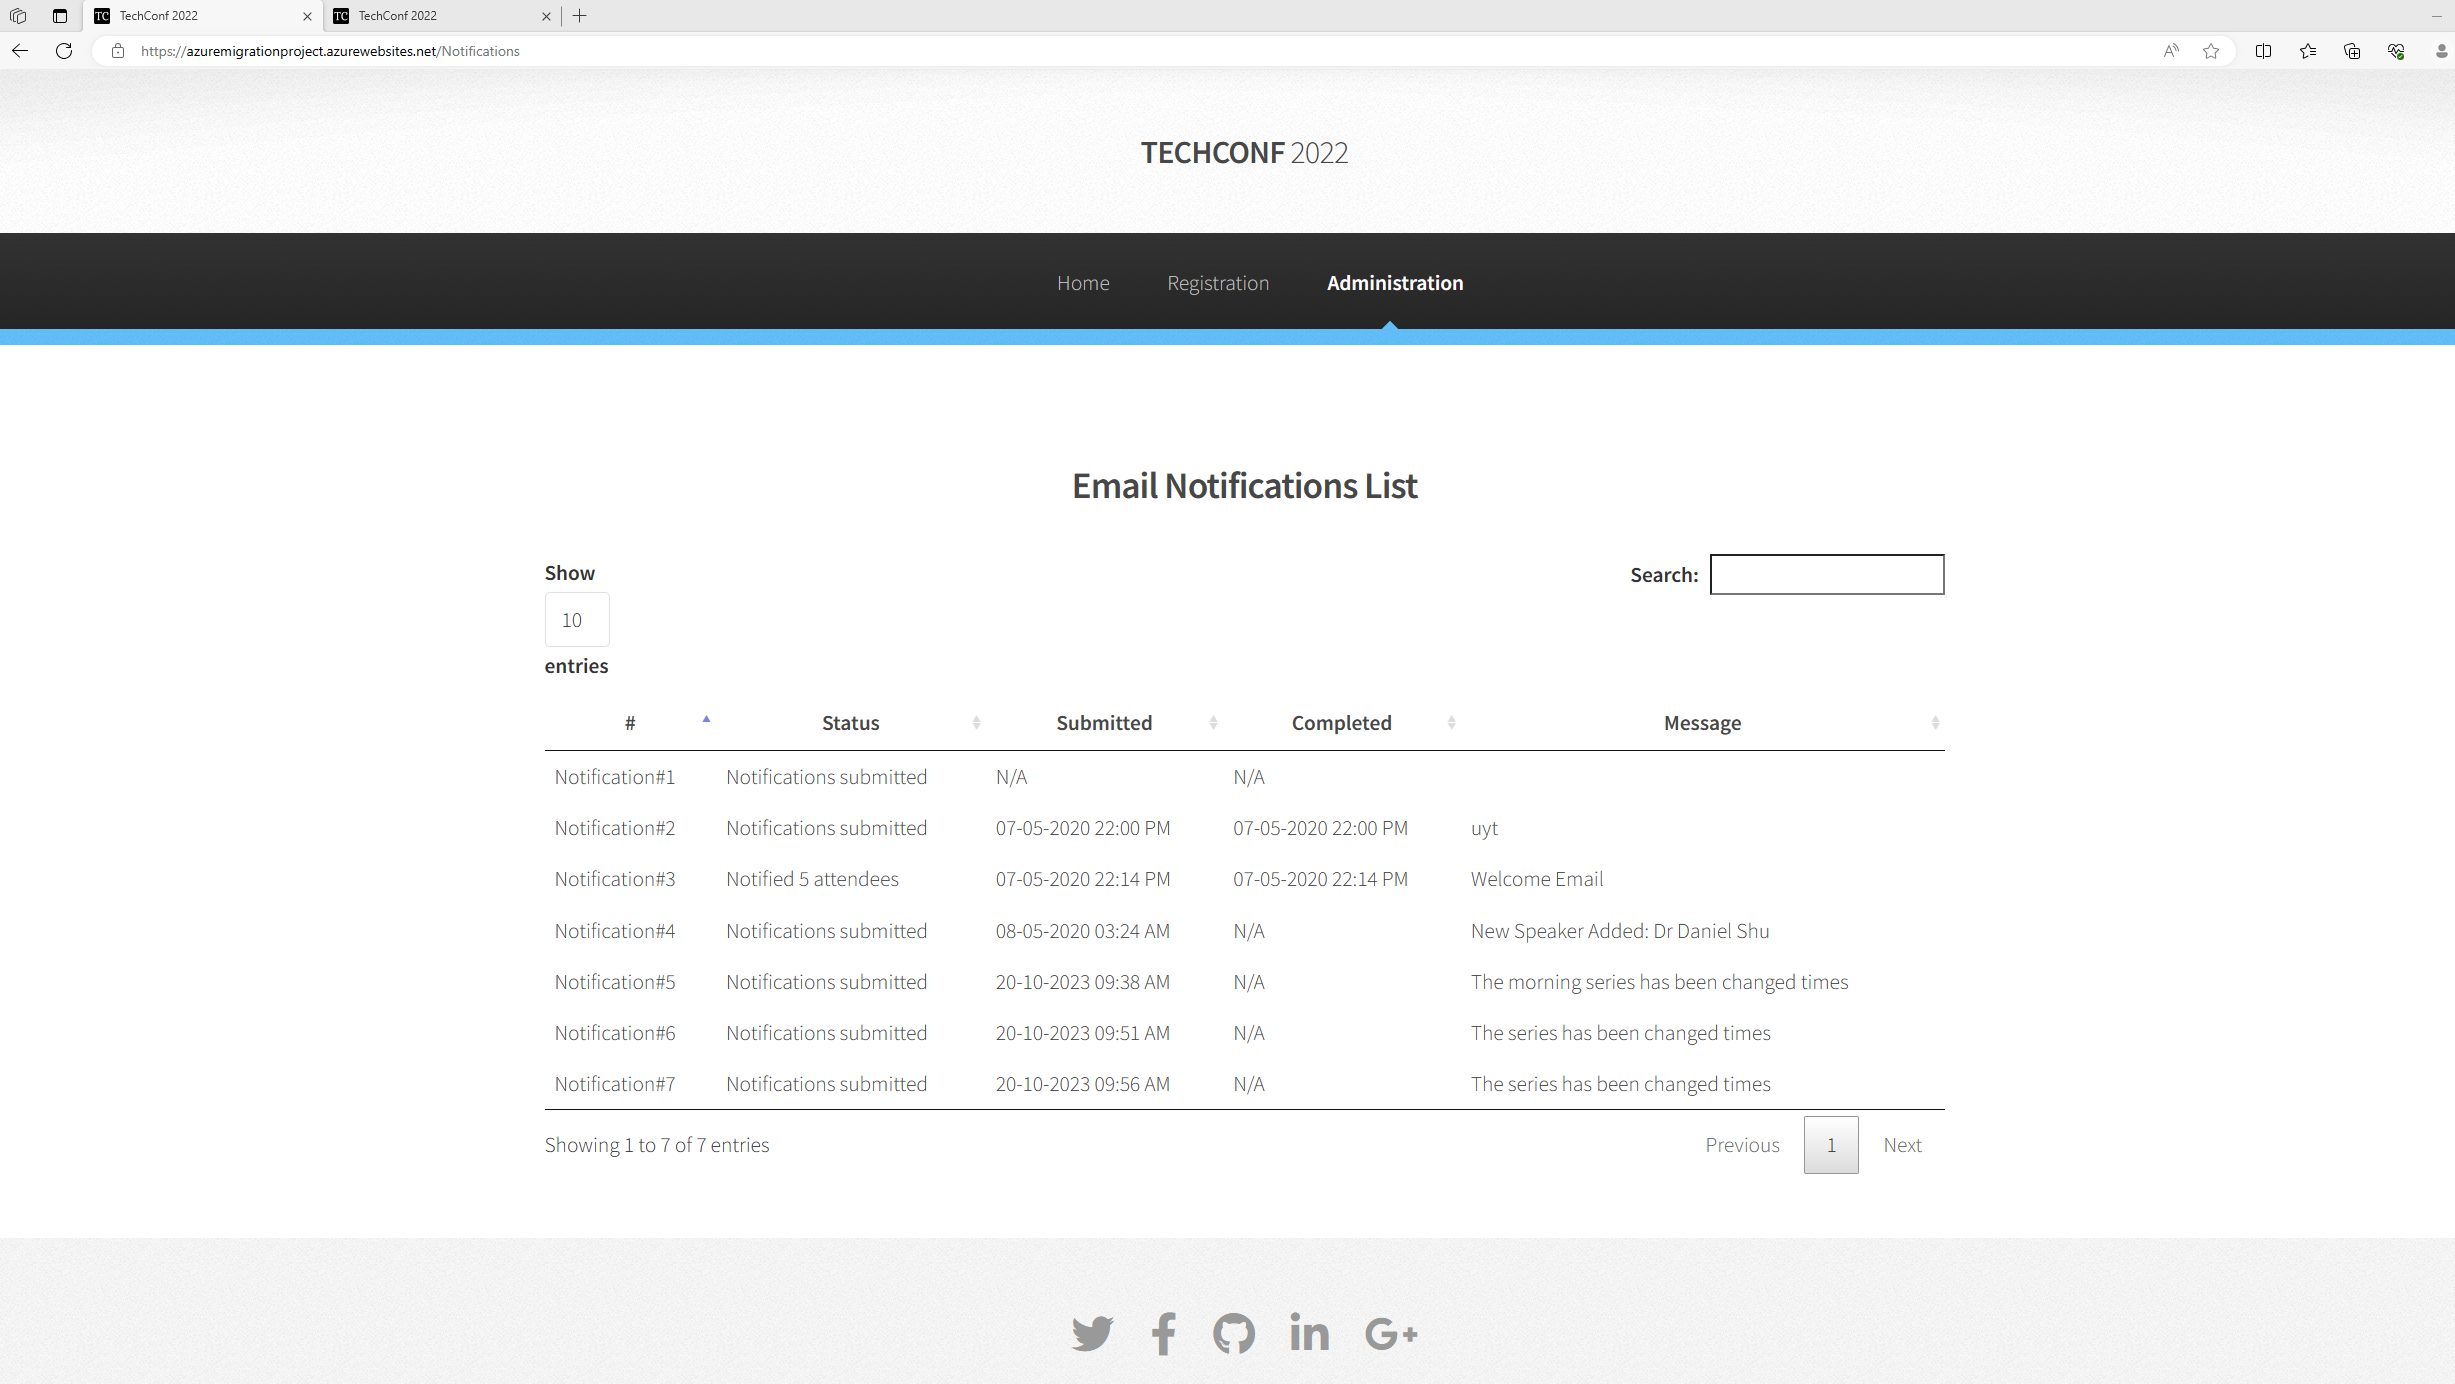
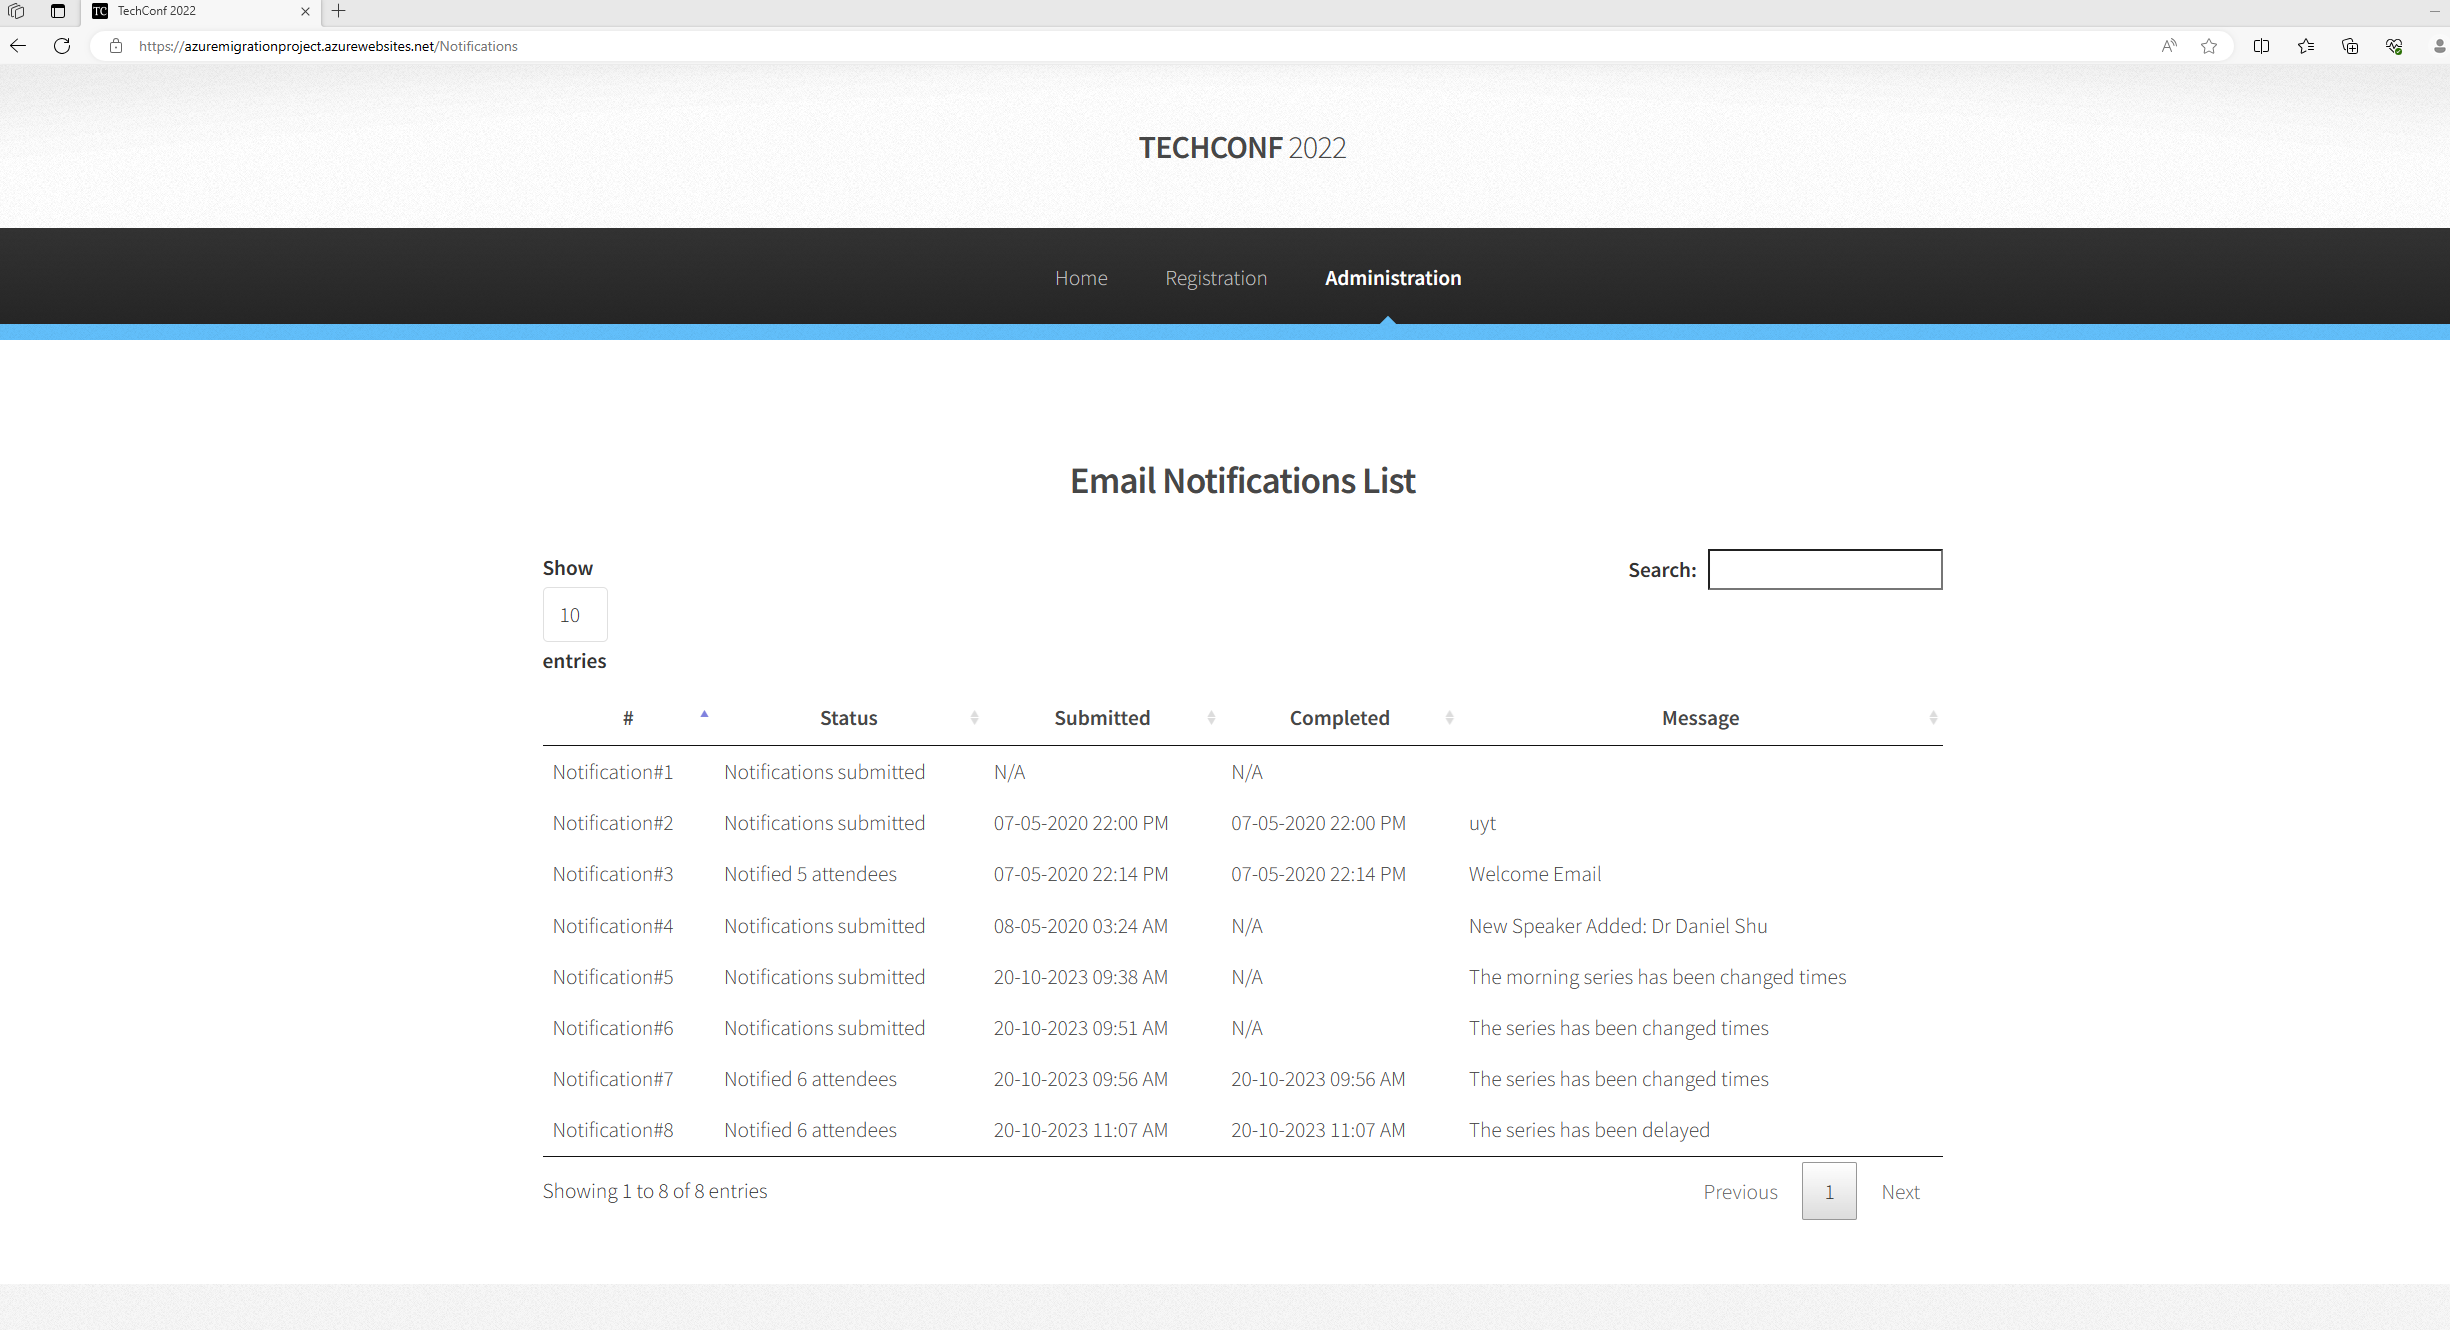
update code

diff --git a/function/function_app.py b/function/function_app.py
@@ -23,21 +23,35 @@ def sendnotification(msg: func.ServiceBusMessage):
     
     try:
         # get notification message and subject from database using the notification_id
-        notification_query =  cursor.execute("SELECT message, subject FROM notification WHERE id = %s;", (notification_id,))
-        
+        cursor.execute("SELECT subject, message FROM notification WHERE id = %s;", (notification_id,))
+        notification = cursor.fetchone()
+        # get notification message and subject from database using the notification_id
+        notification_subject = notification[0]
+        notification_message = notification[1]
+
         # get attendees email and name
         cursor.execute("SELECT first_name, last_name, email FROM attendee;")
         attendees = cursor.fetchall()
         
         # loop through each attendee and send an email with a personalized subject
         for attendee in attendees:
-            Mail('{}, {}, {}'.format({'admin@techconf.com'}, {attendee[2]}, {notification_query}))
+            attendee_first_name = attendee[0]
+            attendee_email = attendee[1]
+            updated_subject = '{}: {}'.format(attendee_first_name, notification_subject)
+            email = Mail(
+                from_email=os.environ.get('ADMIN_EMAIL_ADDRESS'),
+                to_emails=attendee_email,
+                subject=updated_subject,
+                plain_text_content=notification_message)
+            
+            sg = SendGridAPIClient(os.environ.get('SENDGRID_API_KEY'))
+            sg.send(email)
     
         notification_completed_date =  datetime.utcnow()
         notification_status = 'Notified {} attendees'.format(len(attendees))
 
         # update the notification table by setting the completed date and updating the status with the total number of attendees notified
-        cursor.execute("UPDATE notification SET completed_date = %s, status = %s WHERE id = %s;", (notification_completed_date, notification_status, notification_id,))
+        cursor.execute("UPDATE notification SET completed_date = %s, status = %s WHERE id = %s;", (notification_completed_date, notification_status, notification_id))
         db_connection.commit()
     except (Exception, psycopg2.DatabaseError) as error:
         logging.error(error)
